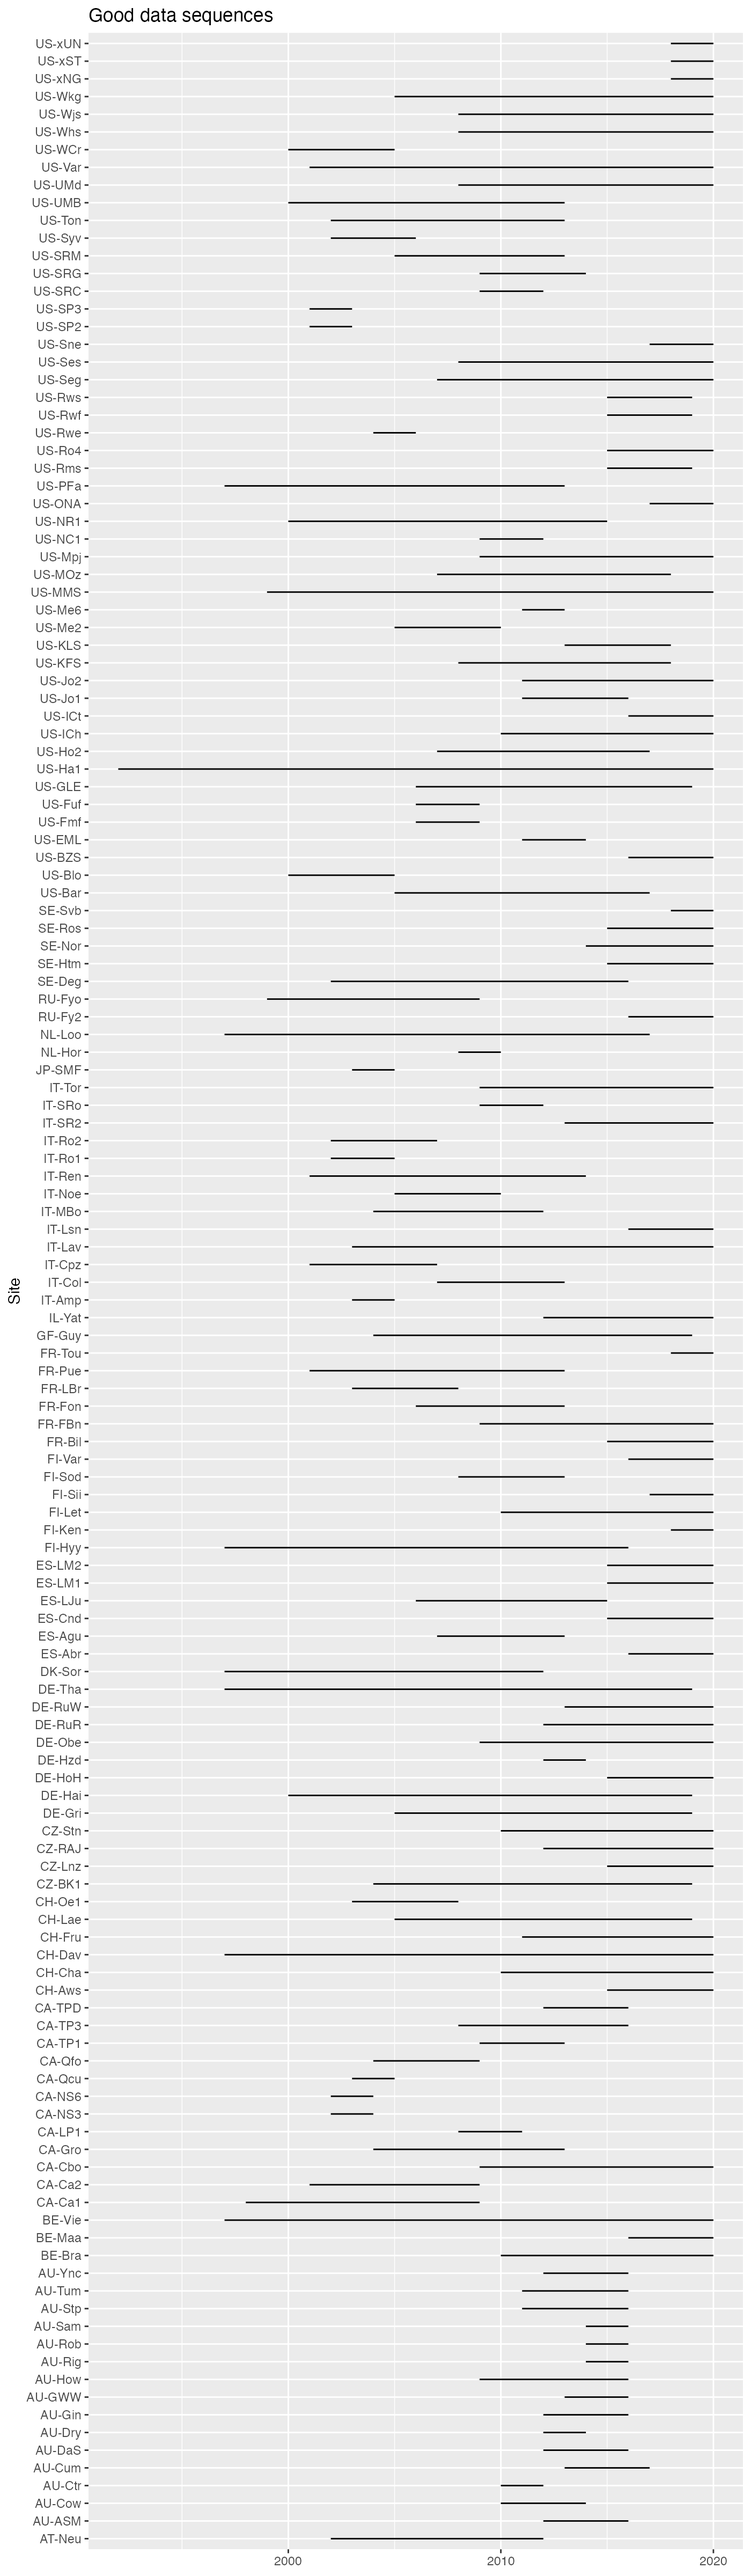
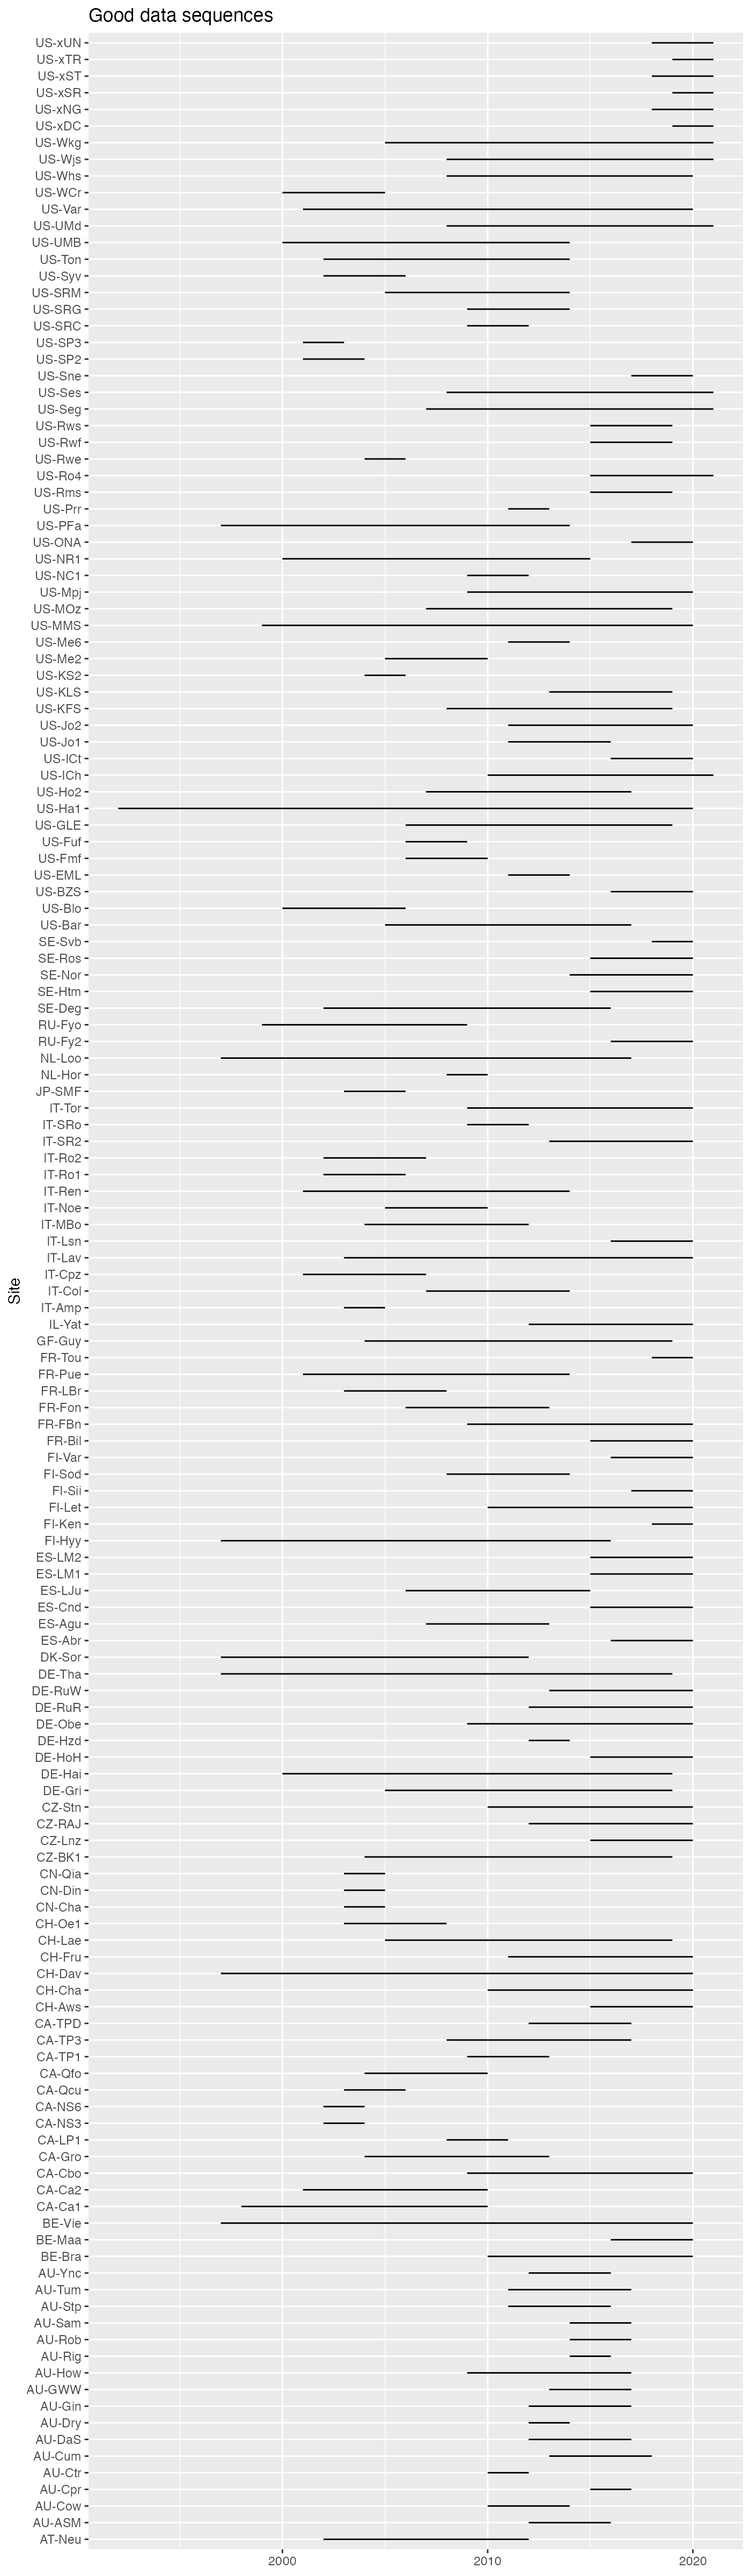
Deploying to gh-pages from @ stineb/FluxDataKit@af83731245a95e39038095e657a5832668a45c6d 🚀

diff --git a/reference/fdk_convert_lsm.html b/reference/fdk_convert_lsm.html
@@ -1,5 +1,5 @@
 <!DOCTYPE html>
-<!-- Generated by pkgdown: do not edit by hand --><html lang="en"><head><meta http-equiv="Content-Type" content="text/html; charset=UTF-8"><meta charset="utf-8"><meta http-equiv="X-UA-Compatible" content="IE=edge"><meta name="viewport" content="width=device-width, initial-scale=1.0"><title>Converts LSM netcdf data to FLUXNET — fdk_convert_lsm • FluxDataKit</title><!-- favicons --><link rel="icon" type="image/png" sizes="16x16" href="/favicon-16x16.png"><link rel="icon" type="image/png" sizes="32x32" href="/favicon-32x32.png"><link rel="apple-touch-icon" type="image/png" sizes="180x180" href="/apple-touch-icon.png"><!-- jquery --><script src="https://cdnjs.cloudflare.com/ajax/libs/jquery/3.4.1/jquery.min.js" integrity="sha256-CSXorXvZcTkaix6Yvo6HppcZGetbYMGWSFlBw8HfCJo=" crossorigin="anonymous"></script><!-- Bootstrap --><link rel="stylesheet" href="https://cdnjs.cloudflare.com/ajax/libs/twitter-bootstrap/3.4.1/css/bootstrap.min.css" integrity="sha256-bZLfwXAP04zRMK2BjiO8iu9pf4FbLqX6zitd+tIvLhE=" crossorigin="anonymous"><script src="https://cdnjs.cloudflare.com/ajax/libs/twitter-bootstrap/3.4.1/js/bootstrap.min.js" integrity="sha256-nuL8/2cJ5NDSSwnKD8VqreErSWHtnEP9E7AySL+1ev4=" crossorigin="anonymous"></script><!-- bootstrap-toc --><link rel="stylesheet" href="../bootstrap-toc.css"><script src="../bootstrap-toc.js"></script><!-- Font Awesome icons --><link rel="stylesheet" href="https://cdnjs.cloudflare.com/ajax/libs/font-awesome/5.11.1/css/all.min.css" integrity="sha256-PbSmjxuVAzJ6FPvNYsrXygfGhNJYyZ2GktDbkMBqQZg=" crossorigin="anonymous"><link rel="stylesheet" href="https://cdnjs.cloudflare.com/ajax/libs/font-awesome/5.11.1/css/v4-shims.min.css" integrity="sha256-A6jcAdwFD48VMjlI3GDxUd+eCQa7/KWy6G9oe/ovaPA=" crossorigin="anonymous"><!-- Fonts --><link rel="preconnect" href="https://fonts.googleapis.com"><link rel="preconnect" href="https://fonts.gstatic.com" crossorigin><link href="https://fonts.googleapis.com/css2?family=Titillium+Web:ital,wght@0,300;0,400;0,700;1,300;1,400&amp;display=swap" rel="stylesheet"><!-- clipboard.js --><script src="https://cdnjs.cloudflare.com/ajax/libs/clipboard.js/2.0.4/clipboard.min.js" integrity="sha256-FiZwavyI2V6+EXO1U+xzLG3IKldpiTFf3153ea9zikQ=" crossorigin="anonymous"></script><!-- headroom.js --><script src="https://cdnjs.cloudflare.com/ajax/libs/headroom/0.9.4/headroom.min.js" integrity="sha256-DJFC1kqIhelURkuza0AvYal5RxMtpzLjFhsnVIeuk+U=" crossorigin="anonymous"></script><script src="https://cdnjs.cloudflare.com/ajax/libs/headroom/0.9.4/jQuery.headroom.min.js" integrity="sha256-ZX/yNShbjqsohH1k95liqY9Gd8uOiE1S4vZc+9KQ1K4=" crossorigin="anonymous"></script><!-- pkgdown --><link href="../pkgdown.css" rel="stylesheet"><script src="../pkgdown.js"></script><!-- geco --><link href="../geco.css" rel="stylesheet"><meta property="og:title" content="Converts LSM netcdf data to FLUXNET — fdk_convert_lsm"><meta property="og:description" content="Reads LSM data (as a netcdf) in a given directory
+<!-- Generated by pkgdown: do not edit by hand --><html lang="en"><head><meta http-equiv="Content-Type" content="text/html; charset=UTF-8"><meta charset="utf-8"><meta http-equiv="X-UA-Compatible" content="IE=edge"><meta name="viewport" content="width=device-width, initial-scale=1.0"><title>Converts LSM NetCDF data to FLUXNET — fdk_convert_lsm • FluxDataKit</title><!-- favicons --><link rel="icon" type="image/png" sizes="16x16" href="/favicon-16x16.png"><link rel="icon" type="image/png" sizes="32x32" href="/favicon-32x32.png"><link rel="apple-touch-icon" type="image/png" sizes="180x180" href="/apple-touch-icon.png"><!-- jquery --><script src="https://cdnjs.cloudflare.com/ajax/libs/jquery/3.4.1/jquery.min.js" integrity="sha256-CSXorXvZcTkaix6Yvo6HppcZGetbYMGWSFlBw8HfCJo=" crossorigin="anonymous"></script><!-- Bootstrap --><link rel="stylesheet" href="https://cdnjs.cloudflare.com/ajax/libs/twitter-bootstrap/3.4.1/css/bootstrap.min.css" integrity="sha256-bZLfwXAP04zRMK2BjiO8iu9pf4FbLqX6zitd+tIvLhE=" crossorigin="anonymous"><script src="https://cdnjs.cloudflare.com/ajax/libs/twitter-bootstrap/3.4.1/js/bootstrap.min.js" integrity="sha256-nuL8/2cJ5NDSSwnKD8VqreErSWHtnEP9E7AySL+1ev4=" crossorigin="anonymous"></script><!-- bootstrap-toc --><link rel="stylesheet" href="../bootstrap-toc.css"><script src="../bootstrap-toc.js"></script><!-- Font Awesome icons --><link rel="stylesheet" href="https://cdnjs.cloudflare.com/ajax/libs/font-awesome/5.11.1/css/all.min.css" integrity="sha256-PbSmjxuVAzJ6FPvNYsrXygfGhNJYyZ2GktDbkMBqQZg=" crossorigin="anonymous"><link rel="stylesheet" href="https://cdnjs.cloudflare.com/ajax/libs/font-awesome/5.11.1/css/v4-shims.min.css" integrity="sha256-A6jcAdwFD48VMjlI3GDxUd+eCQa7/KWy6G9oe/ovaPA=" crossorigin="anonymous"><!-- Fonts --><link rel="preconnect" href="https://fonts.googleapis.com"><link rel="preconnect" href="https://fonts.gstatic.com" crossorigin><link href="https://fonts.googleapis.com/css2?family=Titillium+Web:ital,wght@0,300;0,400;0,700;1,300;1,400&amp;display=swap" rel="stylesheet"><!-- clipboard.js --><script src="https://cdnjs.cloudflare.com/ajax/libs/clipboard.js/2.0.4/clipboard.min.js" integrity="sha256-FiZwavyI2V6+EXO1U+xzLG3IKldpiTFf3153ea9zikQ=" crossorigin="anonymous"></script><!-- headroom.js --><script src="https://cdnjs.cloudflare.com/ajax/libs/headroom/0.9.4/headroom.min.js" integrity="sha256-DJFC1kqIhelURkuza0AvYal5RxMtpzLjFhsnVIeuk+U=" crossorigin="anonymous"></script><script src="https://cdnjs.cloudflare.com/ajax/libs/headroom/0.9.4/jQuery.headroom.min.js" integrity="sha256-ZX/yNShbjqsohH1k95liqY9Gd8uOiE1S4vZc+9KQ1K4=" crossorigin="anonymous"></script><!-- pkgdown --><link href="../pkgdown.css" rel="stylesheet"><script src="../pkgdown.js"></script><!-- geco --><link href="../geco.css" rel="stylesheet"><meta property="og:title" content="Converts LSM NetCDF data to FLUXNET — fdk_convert_lsm"><meta property="og:description" content="Reads LSM data (as a netcdf) in a given directory
 by (fluxnet) site name, optionally only returns the meta-data of the
 site data."><meta name="twitter:card" content="summary"></head><body data-spy="scroll" data-target="#toc">
     
@@ -61,7 +61,7 @@ site data."><meta name="twitter:card" content="summary"></head><body data-spy="s
       </header><div class="row">
   <div class="col-md-9 contents">
     <div class="page-header">
-    <h1>Converts LSM netcdf data to FLUXNET</h1>
+    <h1>Converts LSM NetCDF data to FLUXNET</h1>
     
     <div class="hidden name"><code>fdk_convert_lsm.Rd</code></div>
     </div>

diff --git a/articles/04_data_use.html b/articles/04_data_use.html
@@ -159,15 +159,15 @@ to 399,310 data points of daily data.</p>
 <div class="sourceCode" id="cb3"><pre class="downlit sourceCode r">
 <code class="sourceCode R"><span><span class="co"># number of sites</span></span>
 <span><span class="fu"><a href="https://rdrr.io/r/base/nrow.html" class="external-link">nrow</a></span><span class="op">(</span><span class="va">sites</span><span class="op">)</span></span></code></pre></div>
-<pre><code><span><span class="co">## [1] 142</span></span></code></pre>
+<pre><code><span><span class="co">## [1] 151</span></span></code></pre>
 <div class="sourceCode" id="cb5"><pre class="downlit sourceCode r">
 <code class="sourceCode R"><span><span class="co"># number of site-years</span></span>
 <span><span class="fu"><a href="https://rdrr.io/r/base/sum.html" class="external-link">sum</a></span><span class="op">(</span><span class="va">sites</span><span class="op">$</span><span class="va">nyears_gpp</span><span class="op">)</span></span></code></pre></div>
-<pre><code><span><span class="co">## [1] 1208</span></span></code></pre>
+<pre><code><span><span class="co">## [1] 1275</span></span></code></pre>
 <div class="sourceCode" id="cb7"><pre class="downlit sourceCode r">
 <code class="sourceCode R"><span><span class="co"># number of data points (days)</span></span>
 <span><span class="fu"><a href="https://rdrr.io/r/base/sum.html" class="external-link">sum</a></span><span class="op">(</span><span class="va">sites</span><span class="op">$</span><span class="va">nyears_gpp</span><span class="op">)</span> <span class="op">*</span> <span class="fl">365</span></span></code></pre></div>
-<pre><code><span><span class="co">## [1] 440920</span></span></code></pre>
+<pre><code><span><span class="co">## [1] 465375</span></span></code></pre>
 </div>
 <div class="section level3">
 <h3 id="load-data">Load data<a class="anchor" aria-label="anchor" href="#load-data"></a>

diff --git a/reference/index.html b/reference/index.html
@@ -77,7 +77,7 @@
       </tr><tr><td>
           <p><code><a href="fdk_convert_lsm.html">fdk_convert_lsm()</a></code> </p>
         </td>
-        <td><p>Converts LSM netcdf data to FLUXNET</p></td>
+        <td><p>Converts LSM NetCDF data to FLUXNET</p></td>
       </tr><tr><td>
           <p><code><a href="fdk_correct_era.html">fdk_correct_era()</a></code> </p>
         </td>
